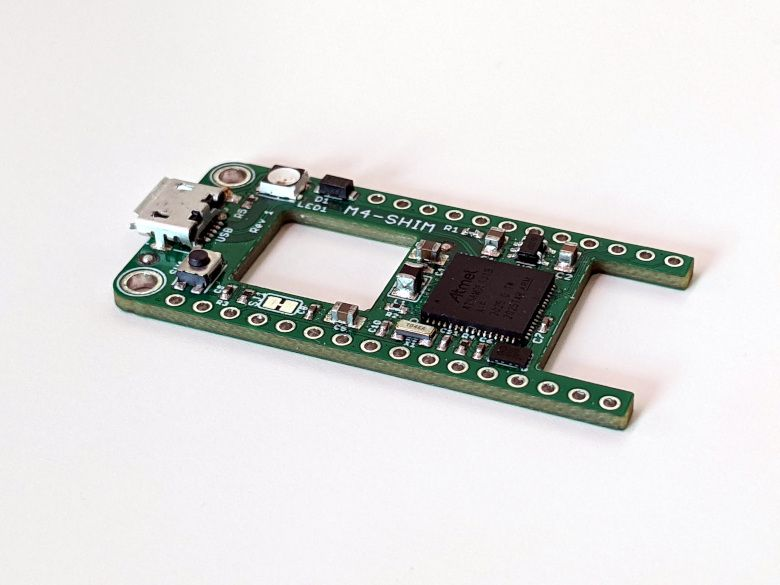
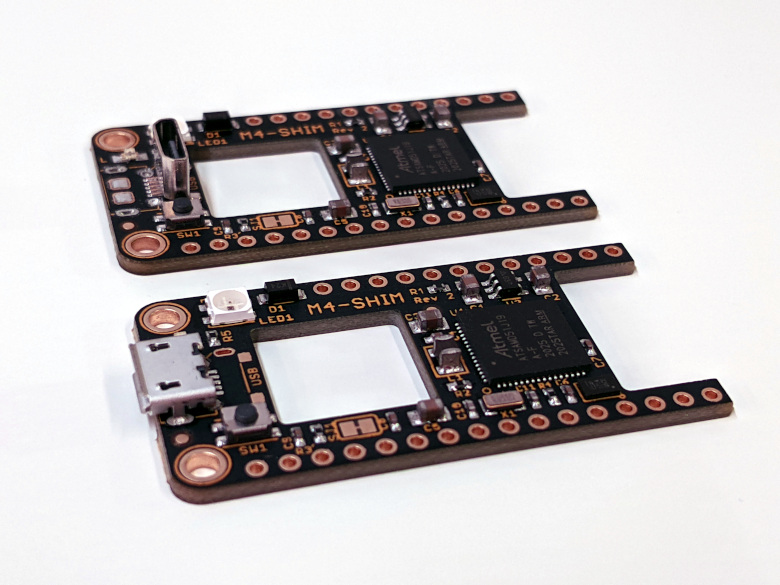
Update Silicognition M4-Shim
Updated (production) picture and a small text fix.

diff --git a/_board/silicognition-m4-shim.md b/_board/silicognition-m4-shim.md
@@ -16,7 +16,7 @@ features:
 
 This board is a electrically a clone of the [Adafruit Feather M4 Express](https://www.adafruit.com/product/3857), but physically optimized to fit on top of the [PoE-FeatherWing](https://www.crowdsupply.com/silicognition/poe-featherwing), filling the empty space around the RJ45 and flyback transformer and allowing the creation of extremely compact Power over Ethernet systems.
 
-Just like the original Feather M4 Express, it is powered by the ATSAMD51J19 - with its 120MHz Cortex M4 with floating point support and 512KB Flash and 192KB RAM.  It also has 2MB of SPI flash on board.  The only thing missing compared to the original is the battery charger, which was deemed expendable for Power over Ethernet systems.  The board comes with a UF2 bootloader for easy Arduino and CircuitPython compatibility, and has CircuitPython with Wiznet W5500 drivers pre-installed, plus a `boot.py` that sets the Ethernet connection up for you!
+Just like the original Feather M4 Express, it is powered by the ATSAMD51J19 - with its 120MHz Cortex M4 with floating point support and 512KB Flash and 192KB RAM.  It also has 2MB of SPI flash on board.  The only thing missing compared to the original is the battery charger, which was deemed expendable for Power over Ethernet systems.  The board comes with a UF2 bootloader for easy Arduino and CircuitPython compatibility, and has CircuitPython with Wiznet W5500 drivers pre-installed, plus a `poe_featherwing.py` module that sets the Ethernet connection up for you!
 
 ## Learn More
 * [Hardware Github repo](https://github.com/xorbit/M4-Shim)
